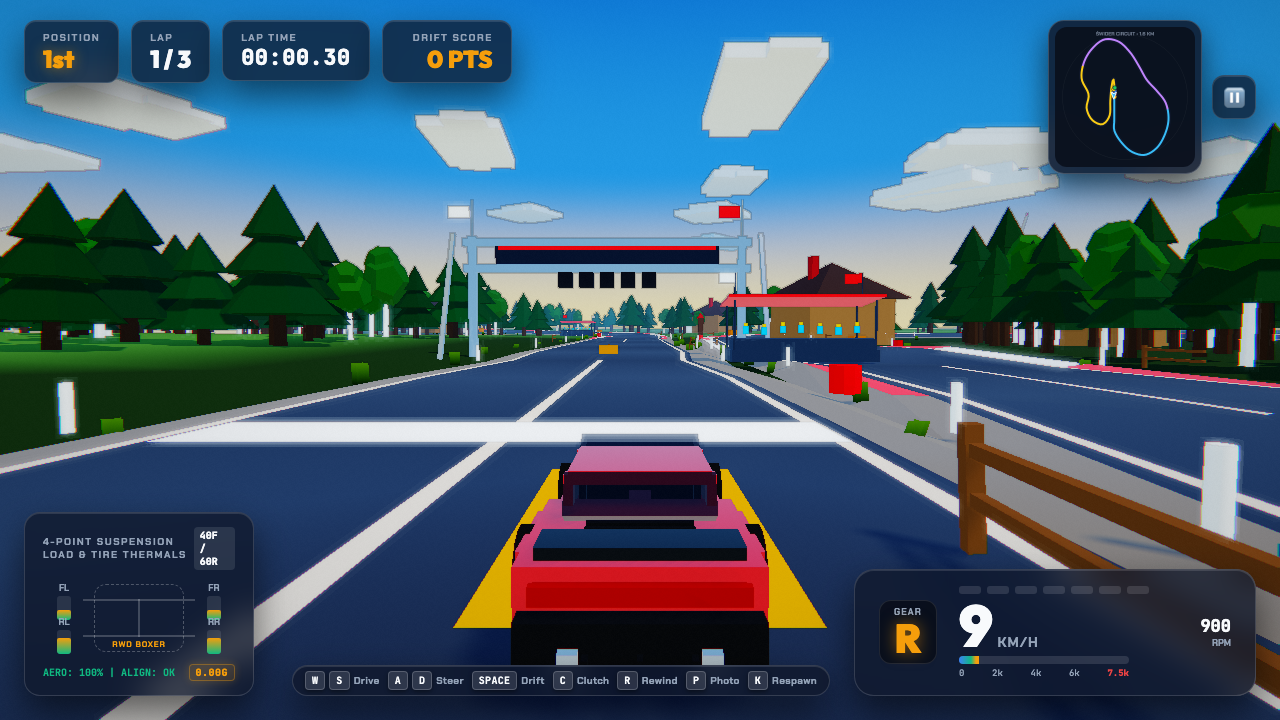
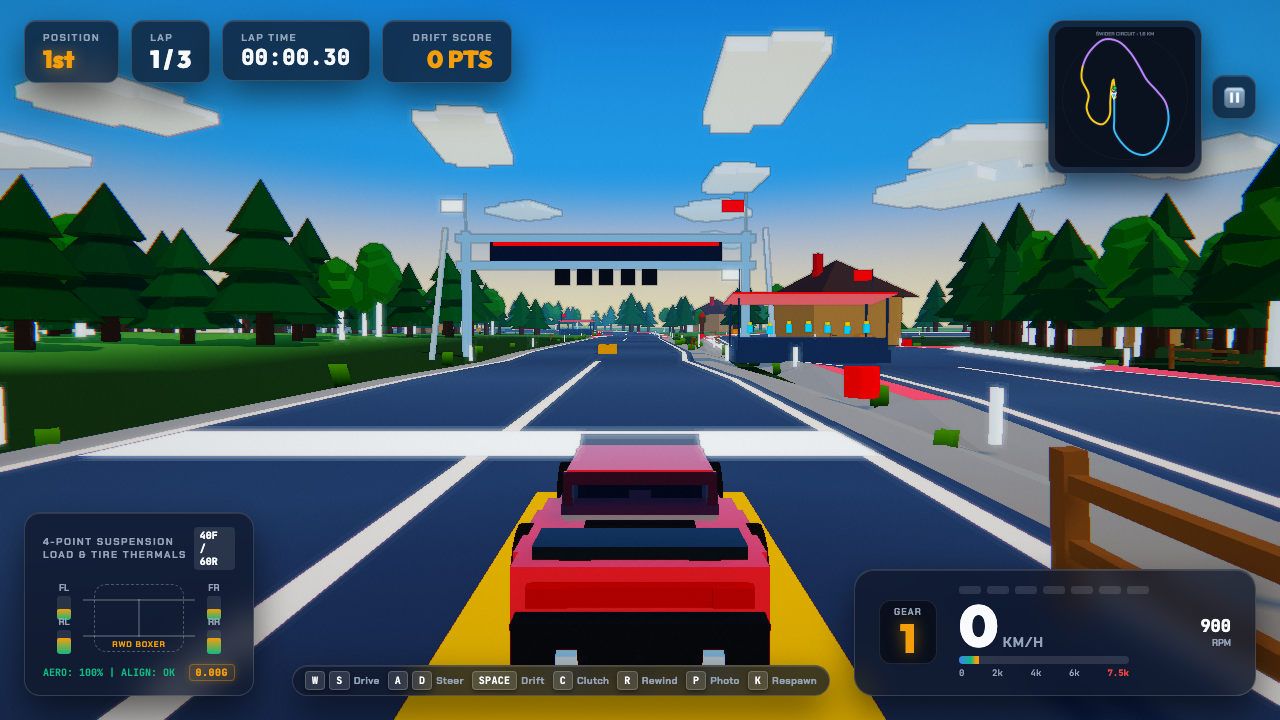
fix(physics): fix inverted steering and prevent car reversing at race start

diff --git a/src/physics/VehiclePhysics.ts b/src/physics/VehiclePhysics.ts
@@ -597,10 +597,13 @@ export class VehiclePhysics {
 
     // Braking Force (60% front, 40% rear bias)
     let brakeForceN = 0;
+    if (inputs.handbrake) {
+      brakeForceN += 28000.0;
+    }
     if (inputs.brake > 0) {
-      brakeForceN = inputs.brake * 16000.0;
-      if (forwardSpeed < 1.0 && inputs.brake > 0.4) {
-        // Reverse gear
+      brakeForceN += inputs.brake * 16000.0;
+      // Reverse gear: only engage if vehicle is completely stopped, player holds brake without throttle, and handbrake is released
+      if (forwardSpeed <= 0.05 && inputs.brake > 0.5 && inputs.throttle < 0.05 && !inputs.handbrake) {
         driveForceN = -inputs.brake * 5500.0;
         brakeForceN = 0;
       }
@@ -667,7 +670,7 @@ export class VehiclePhysics {
     forceWorld.addScaledVector(right, netLatForce);
 
     // Front steered lateral traction force (pulls vehicle front in steer direction)
-    const frontSteerLateralForce = (this.steerAngle * Math.sign(forwardSpeed || 1)) * Math.min(1.0, this.speedKmh / 14.0) * (frontNormalN * 0.85);
+    const frontSteerLateralForce = this.steerAngle * Math.min(1.0, this.speedKmh / 14.0) * (frontNormalN * 0.85);
     forceWorld.addScaledVector(right, frontSteerLateralForce);
 
     // 3. Downforce
@@ -682,11 +685,12 @@ export class VehiclePhysics {
     // 4. RESPONSIVE YAW & STEERING INTEGRATION (Kinematic + Dynamic)
     // Low speeds (< 24 km/h): Kinematic Ackermann steering ensures immediate, agile vehicle rotation
     const lowSpeedBlend = THREE.MathUtils.clamp(1.0 - (this.speedKmh / 24.0), 0.0, 1.0);
-    const targetAckermannYawRate = (forwardSpeed / this.wheelbase) * Math.tan(this.steerAngle) * 1.25;
+    const effSpeed = Math.max(0.1, Math.abs(forwardSpeed));
+    const targetAckermannYawRate = (effSpeed / this.wheelbase) * Math.tan(this.steerAngle) * 1.25;
 
     // High speeds: Dynamic yaw torque from tire slip difference + direct steering moment
     const dynamicYawTorque = (frontLateralForce * (this.wheelbase * 0.58)) - (rearLateralForce * (this.wheelbase * 0.42));
-    const directSteerTorque = this.steerAngle * Math.sign(forwardSpeed || 1) * Math.min(1.0, this.speedKmh / 15.0) * (this.specs.mass * 9.5);
+    const directSteerTorque = this.steerAngle * Math.min(1.0, this.speedKmh / 15.0) * (this.specs.mass * 9.5);
     const highSpeedYawTorque = dynamicYawTorque + directSteerTorque;
 
     // Compute yaw impulse and apply along local vehicle UP axis
@@ -728,10 +732,10 @@ export class VehiclePhysics {
     const finalDrive = this.specs.finalDrive;
 
     // Automatic gear shifting based on true drivetrain wheel load
-    if (forwardSpeed < -1.0) {
+    if (forwardSpeed < -0.8 && inputs.brake > 0.3) {
       this.currentGear = -1; // Reverse
     } else {
-      if (this.currentGear <= 0) this.currentGear = 1;
+      if (this.currentGear <= 0 && forwardSpeed >= -0.2) this.currentGear = 1;
 
       const currentGearRatio = this.specs.gearRatios[this.currentGear];
       const wheelLinkedRpm = wheelRps * currentGearRatio * finalDrive * 60;

diff --git a/src/game/GameManager.ts b/src/game/GameManager.ts
@@ -1,4 +1,5 @@
 import * as THREE from 'three';
+import RAPIER from '@dimforge/rapier3d-compat';
 import { AudioManager } from '../audio/AudioManager';
 import { FollowCamera } from '../camera/FollowCamera';
 import { InputManager } from '../controls/InputManager';
@@ -725,7 +726,7 @@ export class GameManager {
           // Player 1 inputs
           let p1Inputs = this.inputManager.getPlayerInputs();
           if (isCountingDown) {
-            p1Inputs = { throttle: 0.35, brake: 1.0, steer: p1Inputs.steer, handbrake: true };
+            p1Inputs = { throttle: 0.35, brake: 0.0, steer: p1Inputs.steer, handbrake: true };
           }
           // Evaluate real-time Tandem Drift proximity & heading alignment (P2P & AI tandem bonus)
           let maxTandemMult = 1.0;
@@ -749,6 +750,12 @@ export class GameManager {
           this.playerVehicle.tandemDistance = minTandemDist;
 
           this.playerVehicle.updatePhysics(p1Inputs, dt, this.waypoints);
+          if (isCountingDown) {
+            this.playerVehicle.rigidBody.setLinvel(new RAPIER.Vector3(0, 0, 0), true);
+            this.playerVehicle.rigidBody.setAngvel(new RAPIER.Vector3(0, 0, 0), true);
+            this.playerVehicle.speedKmh = 0;
+            this.playerVehicle.currentGear = 1;
+          }
 
           // Player 2 inputs (if in Split-Screen)
           if (this.currentMode === 'split-screen' && this.p2Vehicle) {
@@ -774,18 +781,30 @@ export class GameManager {
 
             let p2Inputs = this.inputManager.getPlayer2Inputs();
             if (isCountingDown) {
-              p2Inputs = { throttle: 0.35, brake: 1.0, steer: p2Inputs.steer, handbrake: true };
+              p2Inputs = { throttle: 0.35, brake: 0.0, steer: p2Inputs.steer, handbrake: true };
             }
             this.p2Vehicle.updatePhysics(p2Inputs, dt, this.waypoints);
+            if (isCountingDown) {
+              this.p2Vehicle.rigidBody.setLinvel(new RAPIER.Vector3(0, 0, 0), true);
+              this.p2Vehicle.rigidBody.setAngvel(new RAPIER.Vector3(0, 0, 0), true);
+              this.p2Vehicle.speedKmh = 0;
+              this.p2Vehicle.currentGear = 1;
+            }
           }
 
           // AI Opponents (Pure Pursuit)
           for (const bot of this.aiBots) {
             let botInputs = bot.update(dt, this.allVehicles);
             if (isCountingDown) {
-              botInputs = { throttle: 0.25, brake: 1.0, steer: 0, handbrake: true };
+              botInputs = { throttle: 0.25, brake: 0.0, steer: 0, handbrake: true };
             }
             bot.vehicle.updatePhysics(botInputs, dt, this.waypoints);
+            if (isCountingDown) {
+              bot.vehicle.rigidBody.setLinvel(new RAPIER.Vector3(0, 0, 0), true);
+              bot.vehicle.rigidBody.setAngvel(new RAPIER.Vector3(0, 0, 0), true);
+              bot.vehicle.speedKmh = 0;
+              bot.vehicle.currentGear = 1;
+            }
           }
 
           // Track checkpoints & lap progression (M7 auto-recovery)

diff --git a/src/ecs/systems/InputSystem.ts b/src/ecs/systems/InputSystem.ts
@@ -11,7 +11,7 @@ export class InputSystem {
       let p1 = inputManager.getPlayerInputs();
       if (isCountingDown) {
         VehicleInput.throttle[playerEid] = 0.35;
-        VehicleInput.brake[playerEid] = 1.0;
+        VehicleInput.brake[playerEid] = 0.0;
         VehicleInput.steer[playerEid] = p1.steer;
         VehicleInput.handbrake[playerEid] = 1.0;
       } else {
@@ -27,7 +27,7 @@ export class InputSystem {
       let p2 = inputManager.getPlayer2Inputs();
       if (isCountingDown) {
         VehicleInput.throttle[p2Eid] = 0.35;
-        VehicleInput.brake[p2Eid] = 1.0;
+        VehicleInput.brake[p2Eid] = 0.0;
         VehicleInput.steer[p2Eid] = p2.steer;
         VehicleInput.handbrake[p2Eid] = 1.0;
       } else {
